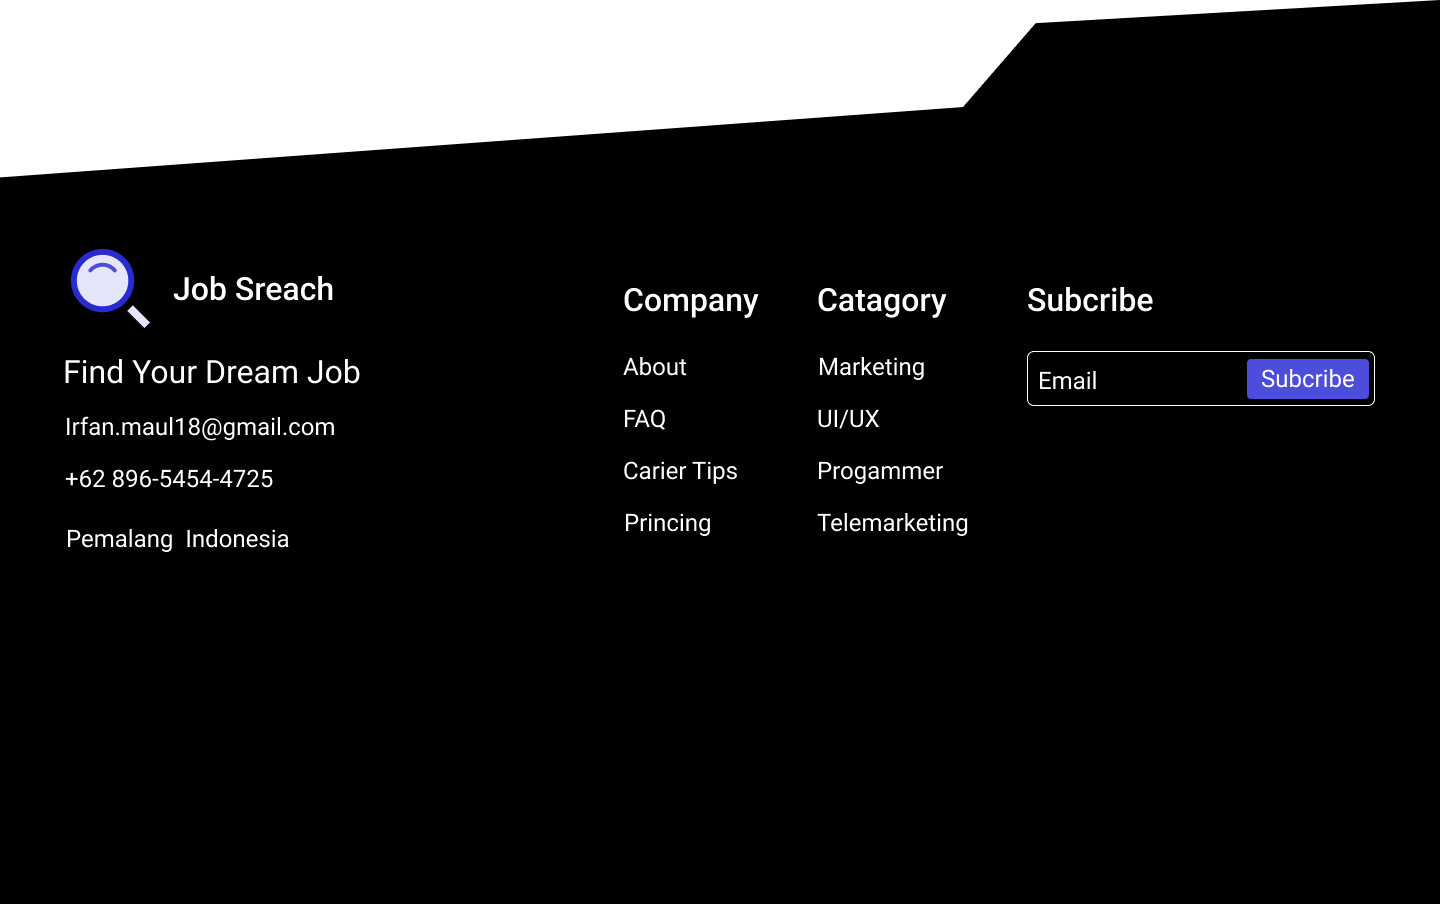
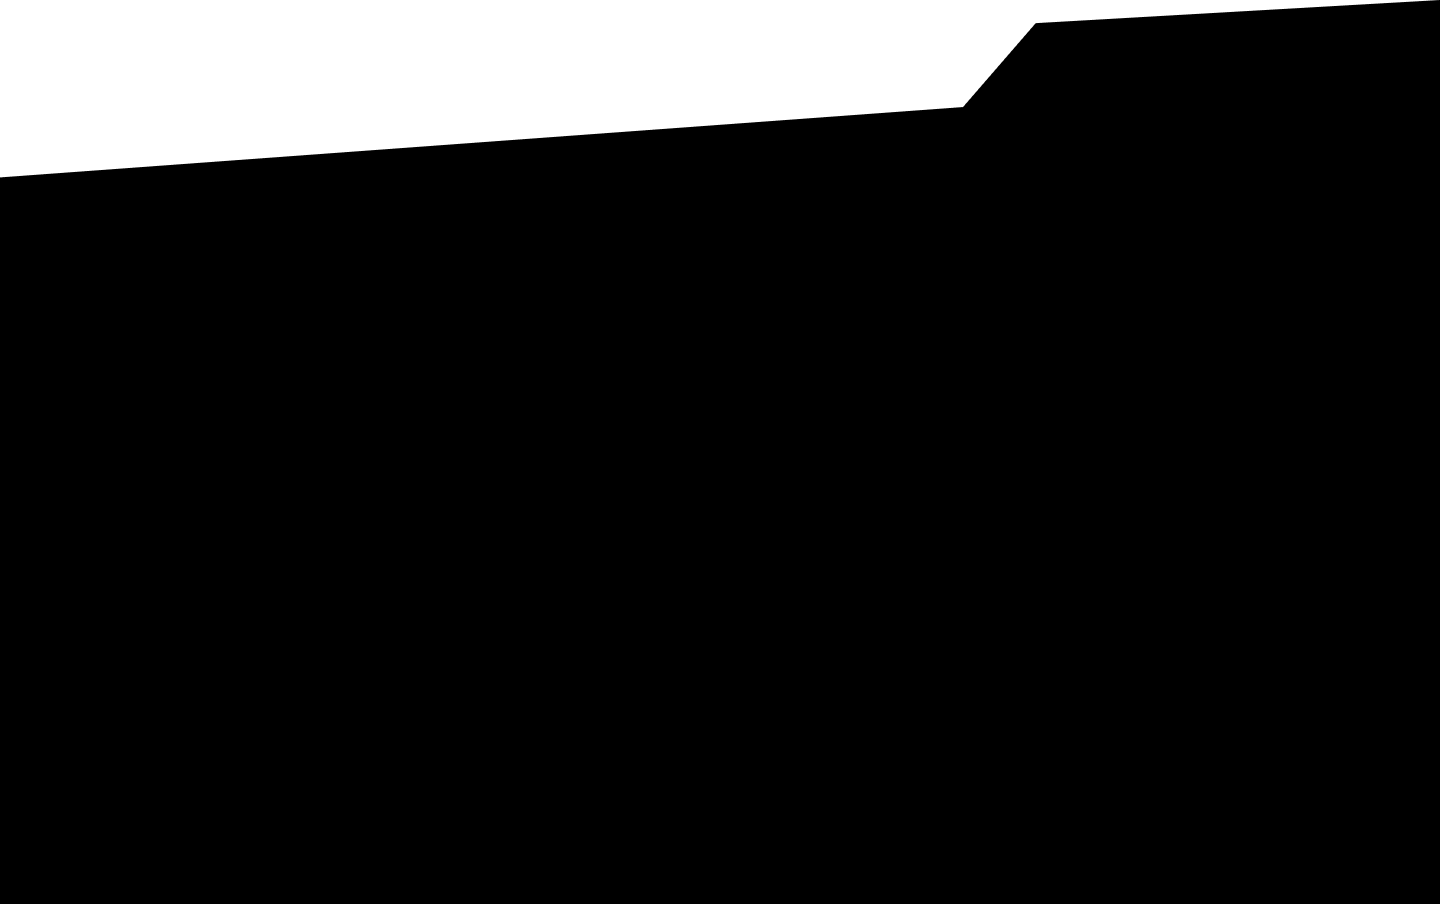
i have tried my best

diff --git a/sp/app/ui/components/footer.tsx b/sp/app/ui/components/footer.tsx
@@ -2,53 +2,62 @@ import Image from 'next/image'
 import f from './footer.module.scss'
 
 export default function Footer() {
-    <footer space-x-10>
-        <div flex-collumn>        
+    return (
         
-            <div className='flex items-center'>
+        <div className={f.footer__section}>
+            <div className="container">
 
-                <Image  src='/search.png' width={65} height={65} alt="logo"/>
-                <p>Job Search</p>
+                <footer className={`${f.footer}`}>
+                        <div className='flex-collumn'>        
+                        
+                            <div className='flex items-center'>
 
+                                <Image  src='/search.png' width={65} height={65} alt="logo"/>
+                                <p>Job Search</p>
+
+                            </div>
+
+                            <h3 className={`${f.footer__title}`}>Find Your Dream Job</h3>
+
+                            <ul>
+                                <li>+437-445-3666</li>
+                                <li className={`${f.footer__list}`}>blablabla@gmail.com</li>
+                                <li>Canada - Ukrain</li>
+                            </ul>
+                        </div>
+
+                        <div className='flex space-x-10'>
+                            <div className='flex-collumn'>        
+                            
+                                <h3 className={`${f.footer__title}`}>Company</h3>
+
+                                <ul>
+                                    <li>About</li>
+                                    <li className={`${f.footer__list}`}>blablabla@gmail.com</li>
+                                    <li>Canada - Ukraine</li>
+                                </ul>
+                            </div>
+                            
+                            <div className='flex-collumn'>        
+                            
+                
+                                <h3 className={`${f.footer__title}`}>Catalog</h3>
+
+
+                                <ul>
+                                    <li>blablabla@gmail.com</li>
+                                    <li className={`${f.footer__list}`}>blablabla@gmail.com</li>
+                                    <li>Canada - Ukrain</li>
+                                </ul>
+                            </div>
+                
+                        </div>
+
+
+                    
+                </footer>
             </div>
-
-            <h2>Find Your Dream Job</h2>
-
-            <ul>
-                <li>blablabla@gmail.com</li>
-                <li>+437-445-3666</li>
-                <li>Canada - Ukrain</li>
-            </ul>
         </div>
+    )
 
-        <div>
-            <div flex-collumn>        
-            
-                <h3>Company</h3>
-
-                <ul>
-                    <li>About</li>
-                    <li>FAQ</li>
-                    <li>Canada - Ukrain</li>
-                </ul>
-            </div>
-            
-            <div flex-collumn>        
-            
-  
-                <h3>Catalog</h3>
-
-
-                <ul>
-                    <li>blablabla@gmail.com</li>
-                    <li>+437-445-3666</li>
-                    <li>Canada - Ukrain</li>
-                </ul>
-            </div>
-   
-        </div>
-
-
-
-    </footer>
 }

diff --git a/sp/app/ui/components/header.tsx b/sp/app/ui/components/header.tsx
@@ -1,11 +1,10 @@
 import Image from 'next/image'
 import h from './header.module.scss';
 
-export default function Header(props: { title: string; description: string }) {
+export default function Header() {
       
     return (
-     <section className={h.header__section}>  
-
+    <div className='absolute right-0 left-0'>
         <div className="container">
             <header className='header'>
 
@@ -36,14 +35,14 @@ export default function Header(props: { title: string; description: string }) {
 
                 </div>
             </header>
-
+            {/* 
             <>
-                <h1 className='text-3xl'>{props.title}</h1>
-                <p className='text-4xl'>{props.description}</p>
-            </>
+                <h1 className='text-3xl'></h1>
+                <p className='text-4xl'></p>
+            </> */}
             
          </div>
-       
-    </section> 
+    </div>
+
     )
   }

diff --git a/sp/app/layout.tsx b/sp/app/layout.tsx
@@ -1,6 +1,7 @@
 import type { Metadata } from "next";
 import { roboto } from "@/app/ui/fonts/fonts";
 import Header from "./ui/components/header";
+import Footer from "./ui/components/footer";
 import "./globals.css";
 
 export const metadata: Metadata = {
@@ -18,10 +19,9 @@ export default function RootLayout({
   return (
     <html lang="en">
       <body className={`${roboto.className} text-xl`}>
-            <Header title={"7457+ Job Listed"} description={"Find Your Dream Job"} />
-            <div className="container">
+              <Header />
               {children}
-            </div>
+              <Footer />
         </body>
     </html>
   );

diff --git a/sp/app/ui/components/footer.module.scss b/sp/app/ui/components/footer.module.scss
@@ -1,0 +1,22 @@
+.footer__section {
+    padding-top: 241px;
+    margin: 0 auto;
+    height: 930px;
+    background: url('/Footer.png') no-repeat center;
+    background-size: cover;
+
+    .footer {
+        display: flex;
+        justify-content: space-between;
+        align-items: end;
+        padding: 20px 0px;
+    }
+
+    .footer__title {
+        padding: 17px 0 27px 0;
+    }
+
+    .footer__list {
+        padding: 24px 0;
+    }
+}

diff --git a/sp/app/globals.css b/sp/app/globals.css
@@ -34,6 +34,7 @@ time, mark, audio, video {
 }
 
 body {
+  position: relative;
 	line-height: 1;
 }
 ol, ul {
@@ -60,8 +61,11 @@ table {
   box-sizing: border-box;
 }
 
-section {
-
+.header__section {
+  margin: 0 auto;
+  height: 830px;
+  background: url('/nvbar.png') no-repeat center;
+  background-size: cover;
 }
 
 h1 {
@@ -74,6 +78,10 @@ p   {
 
 a {
 
+}
+
+ul {
+  gap: 10px;
 }
 
 .container {

diff --git a/sp/app/page.tsx b/sp/app/page.tsx
@@ -1,9 +1,9 @@
-import Image from 'next/image'
 
 export default function Home() {
   return (
-    <main className="flex min-h-screen flex-col items-center justify-between p-24">
-        <Image src="/nvbar.png" height={100} width={100} alt="logo" />
+    <main className="">
+        <section className='header__section'>
+        </section>
     </main>
   );
 }

diff --git a/sp/app/ui/components/header.module.scss b/sp/app/ui/components/header.module.scss
@@ -1,10 +1,5 @@
-.header__section {
-  margin: 0 auto;
-  height: 1000px;
-  background: url('/nvbar.png') no-repeat center;
-  background-size: cover;
-
   .header {
+    position: absolute;
     padding-top: 40px;
     position: sticky;
   }
@@ -21,7 +16,6 @@
         align-items: center;
       }
     }
-}
 
 .image {
   width: 100%;
